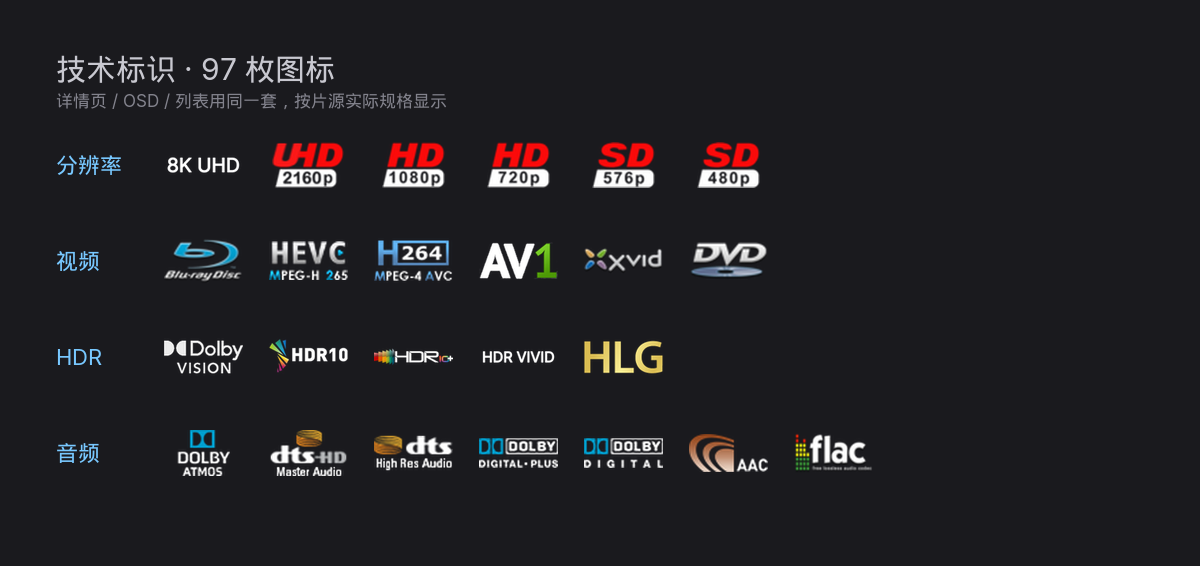
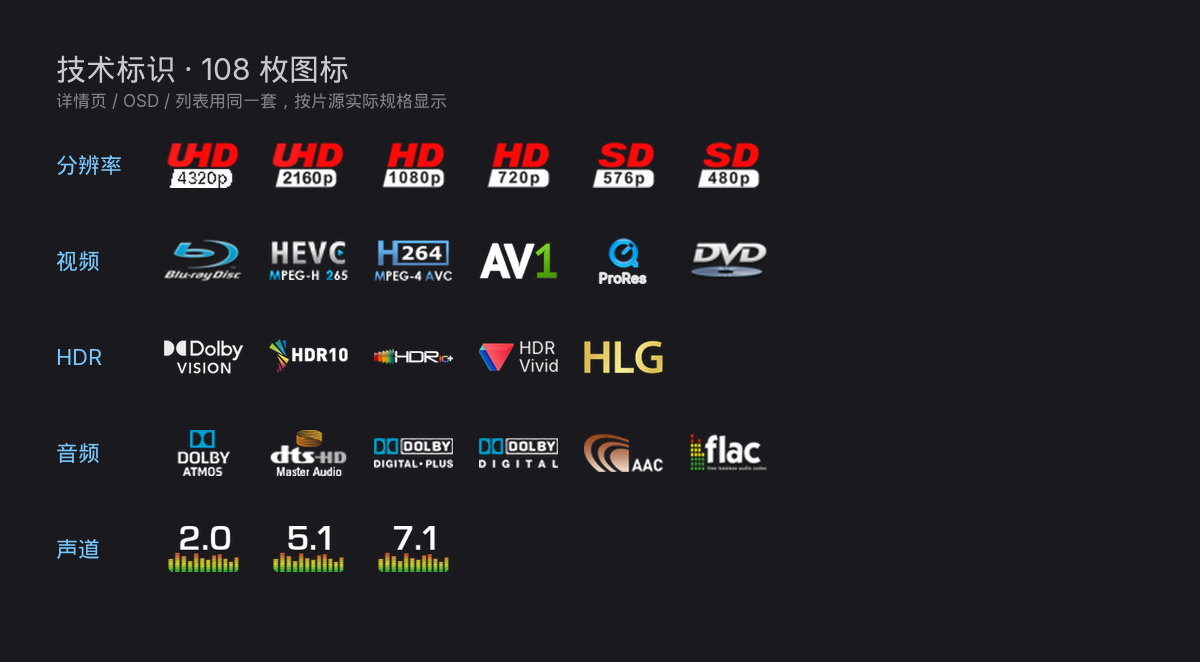
docs: README 定位与功能刷新，addon 描述收紧，技术标识一览图重生成

diff --git a/tools/gen_readme_sheet.py b/tools/gen_readme_sheet.py
@@ -19,9 +19,10 @@ ACCENT = (120, 200, 255, 255)
 
 ROWS = [
     ("分辨率", "resolution", ["8K", "4K", "1080", "720", "576", "480"]),
-    ("视频", "video", ["bluray", "h265", "h264", "av1", "xvid", "dvd"]),
+    ("视频", "video", ["bluray", "h265", "h264", "av1", "prores", "dvd"]),
     ("HDR", "hdr", ["dolbyvision", "hdr10", "hdr10plus", "hdr_vivid", "hlg"]),
-    ("音频", "audio", ["truehd_atmos", "dtshd_ma", "dtshd_hra", "eac3", "ac3", "aac", "flac"]),
+    ("音频", "audio", ["truehd_atmos", "dtshd_ma", "eac3", "ac3", "aac", "flac"]),
+    ("声道", "channels", ["2", "6", "8"]),
 ]
 
 ICON_H = 46          # 图标统一高度
@@ -48,12 +49,17 @@ def load(name, folder):
 canvas = Image.new("RGBA", (W, H), BG)
 d = ImageDraw.Draw(canvas)
 
+TOTAL = sum(
+    len([f for f in os.listdir(os.path.join(TECH, cat)) if f.lower().endswith(".png")])
+    for cat in os.listdir(TECH) if os.path.isdir(os.path.join(TECH, cat))
+)
+
 f_title = ImageFont.truetype(FONT, 30)
 f_label = ImageFont.truetype(FONT, 22)
 f_small = ImageFont.truetype(FONT, 17)
 
 # 标题
-d.text((PAD, PAD - 6), "技术标识 · 97 枚图标", font=f_title, fill=FG)
+d.text((PAD, PAD - 6), "技术标识 · %d 枚图标" % TOTAL, font=f_title, fill=FG)
 d.text((PAD, PAD + 34), "详情页 / OSD / 列表用同一套，按片源实际规格显示", font=f_small, fill=DIM)
 
 y = PAD + 86

diff --git a/README.md b/README.md
@@ -1,198 +1,181 @@
 # Mistuary（雾汐）
 
-雾汐｜轻量透明皮肤，衍生自 Estuary N，小而美。支持**透黑 / 透白**双主题，
-三档独立透明度，原生 Kodi 22 及以上即可运行，**不需要任何内核改动**。
+**Mistuary（雾汐）**，专为中文用户打造的 Kodi 22 轻量透明皮肤，衍生自 Estuary N，小而美。  
+透黑 / 透白双主题，页面 / 弹窗 / 播放中三档透明度各 6 级，原版 Kodi 22 直接运行。
 
-> 需要插件 **Mistuary Helper**（请先装插件再切皮肤）；搭配
-> **Emby for Kodi Next Gen** 并登录后，媒体库直接同步，电影 / 剧集 / 季 / 集 / 评分 / 封面开箱即用。
+**一键接入 Emby**：装好 **Emby for Kodi Next Gen** 并登录，媒体库整体同步进 Kodi ——
+电影 / 剧集 / 季 / 集 / 评分 / 库封面开箱即用，无需手动整理。
+
+> 依赖插件 **Mistuary Helper**（`addon.xml` 硬依赖，未安装时皮肤不加载）。请先装插件再切皮肤。
 
 ---
 
+## 界面预览
+
+![技术标识图标](docs/screenshots/techflags.png)
+
+> 技术标识：108 枚随包图标（分辨率 / 视频编码 / HDR / 音轨 / 声道），按片源实际规格显示，不从外部拉取。上图为 `media/techflags/` 实拍拼图（`tools/gen_readme_sheet.py` 生成）。
+
+## 亮点
+
+- **专为中文用户打造**：豆瓣评分、全拼 / 拼音首字母搜索、服务端中文演员名与类型搜索、  
+  手机 App 文本注入，由 Mistuary Helper 统一提供。
+- **一键接入 Emby**：E4KNG 登录即同步，与 Emby 应用内观感一致；神医助手（StrmAssistantPlus）  
+  写入的豆瓣类型评分同样被读取。
+- **免魔改内核**：全部用标准控件 + 贴图实现，Windows / Linux / CoreELEC / Android 通用。
+- **小而快**：极度精简，焦点移动无拖影，切视图不掉帧。
+- **皮肤零脚本**：皮肤本体只有 XML 与贴图，HTTP / JSON 全部在 Mistuary Helper。
+- **三档透明度互不影响**：页面管全屏页面与卡片，弹窗管对话框、菜单、键盘，播放中管 OSD、  
+  播放列表、书签 —— 多数皮肤只有一个总开关。
+
 ## 支持范围
 
-| 项 | 说明 |
-|---|---|
-| Kodi 版本 | **22 及以上**（要求 `xbmc.gui` 5.18.0，见下文） |
-| 平台 | Windows / Linux / CoreELEC / Android 均可 |
-| 语言 | 简体中文、English |
-| 必需插件 | **Mistuary Helper**（`addon.xml` 硬依赖，未装时皮肤无法加载） |
+| 项       | 说明                                   |
+| ------- | ------------------------------------ |
+| Kodi 版本 | **22 及以上**（要求 `xbmc.gui` 5.18.0） |
+| 平台      | Windows / Linux / CoreELEC / Android |
+| 宽屏适配  | 2160×1080（18:9）已实机验证；17:9 / 19.5:9 / 21:9 同一套百分比机制，未实机验证；4:3 / 3:2 / 16:10 纵向布局未验证 |
+| 语言      | 简体中文、English                         |
+| 必需插件    | **Mistuary Helper**（硬依赖）             |
 
 ## 安装
-
-**从压缩包安装（推荐）**
 
 1. 到 [Releases](https://github.com/wabisabi926/skin.mistuary/releases) 下载最新 `skin.mistuary-x.y.z.zip`
 2. Kodi → 设置 → 插件 → 从 zip 文件安装
 3. 设置 → 界面 → 皮肤 → 皮肤 → 选 **Mistuary**
 
-**手动安装**：把整个仓库目录放到 Kodi 的 `addons/` 下，目录名改成 `skin.mistuary`，重启 Kodi。
+手动安装：整个仓库目录放到 Kodi 的 `addons/` 下，目录名改成 `skin.mistuary`，重启 Kodi。
 
 ## 升级与回退
 
-**升级**：直接装新版本的 zip，Kodi 会提示「已安装，是否覆盖」，选是。
-皮肤设置存在 `userdata/addon_data/skin.mistuary/`，覆盖安装**不会丢**。
+直接装新版本 zip，Kodi 提示「已安装，是否覆盖」选是；皮肤设置存在  
+`userdata/addon_data/skin.mistuary/`，覆盖安装不丢。回退到旧版同理，从  
+[Releases](https://github.com/wabisabi926/skin.mistuary/releases) 取旧 zip。  
+**1.5.2 起要求 Kodi 22**，回 Kodi 21 需用 1.5.1 或更早。
 
-**回退**：到 [Releases](https://github.com/wabisabi926/skin.mistuary/releases) 找旧版本的 zip，
-同样方式装上即可。注意 **1.5.2 起要求 Kodi 22**，要回到 Kodi 21 得用 1.5.1 或更早。
+## 一键接入 Emby
 
-**什么时候必须重启 Kodi**（只重载皮肤不够）：
+1. 安装 **Emby for Kodi Next Gen**（E4KNG，Emby 官方 Kodi 插件）并登录
+2. 安装 [Mistuary Helper](https://github.com/wabisabi926/script.mistuary.helper/releases)
+3. 设置 → 界面 → 皮肤 → 皮肤 → 选 **Mistuary**（或重载皮肤）
 
-| 改了什么 | 生效方式 |
-|---|---|
-| XML / 贴图 / 语言文件 | 重载皮肤 |
-| 装 / 卸 Mistuary Helper、Emby 插件 | 重载皮肤 |
-| `addon.xml` 的依赖声明、皮肤版本号 | **完全退出 Kodi 再打开** |
-| 字体（`Font.xml` / `fonts/*.ttf`） | **完全退出 Kodi 再打开** |
+| 能力                                    | 来源                                                         |
+| ------------------------------------- | ---------------------------------------------------------- |
+| 媒体库、季集结构、已看状态、续播点                     | E4KNG 同步                                                   |
+| 媒体库封面（按库名自动显示）                        | Mistuary Helper 从 Emby 同步                                  |
+| 豆瓣类型评分                                | 神医助手写入 Emby → **Emby for Kodi Next Gen** 同步；详情页由 Helper 兜底 |
+| 首页 / 列表的类型化豆瓣分（亮豆瓣绿环）                | 官方 E4K 只同步 default 评分，类型化豆瓣分需本仓库的 E4K fork                |
+| 服务端搜索（中文 / 原名 / 全拼 / 首字母 / 英文人名 / 类型） | Mistuary Helper 走 Emby 服务端                                 |
 
 ## 必需插件：Mistuary Helper
 
-详情页豆瓣评分、Emby 服务端搜索、媒体库封面同步和播放列表补全由独立插件提供。
-皮肤的 `addon.xml` 声明了对它的硬依赖：**未安装时皮肤不会加载**，请先装插件再切皮肤。
+详情页豆瓣评分、Emby 服务端搜索、媒体库封面同步、播放列表补全由 Mistuary Helper 提供，  
+`addon.xml` 硬依赖：**未安装时皮肤不加载**。
 
-1. 从 [Mistuary Helper Releases](https://github.com/wabisabi926/script.mistuary.helper/releases)
+1. 从 [Mistuary Helper Releases](https://github.com/wabisabi926/script.mistuary.helper/releases)  
    下载 `script.mistuary.helper-<ver>.zip`
-2. Kodi → 插件 → 从 zip 安装，然后在「我的插件 → 程序插件」里启用
+2. Kodi → 插件 → 从 zip 安装，在「我的插件 → 程序插件」里启用
 3. 设置 → 界面 → 皮肤 → 皮肤 → 选 **Mistuary**（或重载皮肤）
 
-> 装 / 卸插件后不重载皮肤，新分支不会生效。搜索还需要 **Emby for Kodi NextGen**；
-> 豆瓣评分只需要 IMDb id，不依赖 Emby。其余功能建议装最新版（0.5.0 及以上），
-> 封面同步、文件播放记录、播放列表补全与未同步剧集浏览都已包含。
-> 相关开关在皮肤设置的「媒体」「播放」页：服务端搜索、详情页联网取豆瓣、播放列表补全等。
-
-## 为什么用它
-
-- **Emby 媒体库开箱即用**：装好并登录 Emby for Kodi Next Gen，媒体库、季集、评分与封面自动同步，不需要手动整理或额外配置。
-- **不需要魔改内核**：原版 Kodi 22 直接跑。很多透明皮肤依赖定制内核的玻璃、
-  圆角扩展，装不上就是黑屏或者效果全丢；这里全部换成标准控件 + 贴图，Windows、CoreELEC、
-  安卓通用。
-- **小而快**：`Textures.xbt` **8.8 MB**、858 张贴图。焦点移动没有拖影，切视图不掉帧。
-- **皮肤里没有 Python**：Kodi 不允许皮肤携带可执行脚本，需要 HTTP / JSON 的部分
-  都在 Mistuary Helper 里，皮肤本体只有 XML 与贴图。
-- **三档透明度分开调**：页面、浮窗、播放中各 6 级，互不影响 —— 多数皮肤只有一个总开关，
-  调完连对话框都跟着变。
+> 装 / 卸插件后不重载皮肤，新分支不生效。搜索还需 **Emby for Kodi NextGen**；  
+> 豆瓣评分只需 IMDb id（或库内豆瓣 ID）。建议 **0.5.3+**：英文人名与类型搜索扩展、  
+> 豆瓣分优先读 StrmAssistant 快照（减少直连限流）、背景剧照色光底（0.5.0）、  
+> 未同步剧集浏览（0.4.0）。相关开关在皮肤设置的「媒体」「播放」页。
 
 ## 主要功能
 
-| | |
-|---|---|
-| **界面** | 真圆角海报墙（遮罩裁切，不是拿色块盖角）、焦点环贴边、详情页全屏沉浸、演员栏点开 |
-| **背景** | 影视页剧照铺满全屏；当前剧照高斯模糊成色光，以 35% 透明度覆在左侧做彩色光晕（Mistuary Helper 提供）；剧照底层与阅读遮罩的压暗可在「设置 → 外观 → 背景压暗」四档调节 |
-| **剧集** | 点开电视剧直接进入剧集详情页版式：季标签与本季集卡片同屏，切换季即换集；首页、媒体库、分类、搜索入口一致 |
-| **元数据** | 评分胶囊（豆瓣 / IMDb / TMDB / 烂番茄，按数据源自动取最多两个；豆瓣优先读 E4K 同步的类型评分，详情页读不到时由 Mistuary Helper 兜底）、技术标识做成图标 |
-| **音乐** | 播放页右侧歌词（CU LRC）、黑胶唱片模式、可替换播放背景、OSD 闲置自动隐藏且时间可调 |
-| **播放** | Mistuary Helper 补全同季 / 同目录后续队列；电视剧详情页起播直接全屏 |
-| **文件续播** | 文件管理器里播过的视频记住进度：起播询问「继续播放 / 从头播放」，焦点行显示已播比例圆环（由 Mistuary Helper 提供） |
-| **系统** | 电源菜单按平台能力自动显隐、设置中心把 Kodi 原生设置和皮肤选项放在一起 |
-
-![技术标识图标](docs/screenshots/techflags.png)
-
-> 技术标识是 **97 枚随包图标**（分辨率 / 视频编码 / HDR / 音轨），按片源实际规格显示，
-> 不是文字标签，也不从外部拉取。上面这张是从 `media/techflags/` 里取的真实图标。
+|          |                                                                                       |
+| -------- | ------------------------------------------------------------------------------------- |
+| **界面**   | 真圆角海报墙（遮罩逐像素裁切，非色块盖角）、焦点环贴边、详情页全屏沉浸、演员栏点开                                             |
+| **背景**   | 影视页剧照铺满全屏；当前剧照经 Helper 高斯模糊成色光底，从清晰剧照左缘渗出（35% 淡色光）；底层压暗四档可调（「设置 → 外观 → 背景压暗」，默认 0.50） |
+| **剧集**   | 点开电视剧直接进入剧集详情页版式：季标签与本季集卡片同屏，切换季即换集；所有电视剧入口一致                                         |
+| **评分**   | 评分胶囊（豆瓣 / IMDb / TMDB）：主评分四档可选，详情页豆瓣评分独立开关，一行最多两颗；豆瓣优先读 E4K 同步的类型评分，详情页读不到时 Helper 兜底 |
+| **搜索**   | 服务端搜索支持中文 / 原名 / 全拼 / 首字母 / 英文人名 / 类型；输入框可呼出全键盘，中文直写，兼容手机 App 文本注入                    |
+| **音乐**   | 播放页右侧歌词（CU LRC）、黑胶唱片模式、可替换播放背景、OSD 闲置自动隐藏（时长可调）                                       |
+| **播放**   | Helper 补全同季 / 同目录 / 跨季后续队列；电视剧详情页起播直接全屏                                               |
+| **文件续播** | 文件管理器播过的视频记住进度：起播询问「继续播放 / 从头播放」，焦点行显示已播比例圆环（Helper 提供，不写 Kodi 原生续播点）                 |
+| **系统**   | 电源菜单按平台能力自动显隐；设置中心合并 Kodi 原生设置与皮肤选项                                                   |
 
 ## 透黑 / 透白
 
 同一套玻璃，两种压色方向，在「设置 → 界面 → 皮肤 → 颜色」切换：
 
-- **透黑**（`SKINDEFAULT`，默认）：玻璃压黑，暗环境看片不刺眼 —— 这套皮肤的常态
-- **透白**（`light`）：玻璃提白，白天或亮环境下更清爽
+- **透黑**（`SKINDEFAULT`，默认）：玻璃压黑，暗环境不刺眼 —— 皮肤的常态
+- **透白**（`light`）：玻璃提白，亮环境更清爽
 
-面板分 6 级明暗，由「皮肤设置 → 界面」的三个透明度设置控制；两种模式下文字都是白色。
+面板分 6 级明暗，由「皮肤设置 → 界面」的三个透明度设置控制；两种模式下文字均为白色。
 
 ## 常改的几个设置
 
-设置页**底部有帮助条** —— 聚焦哪一行就显示那一行的说明，不用查文档。
-下面只列最常动的几个：
+设置页底部有帮助条：聚焦哪一行显示哪一行的说明。最常动的几项：
 
-| 设置 | 位置 | 管什么 |
-|---|---|---|
-| **页面 / 弹窗 / 播放中透明度** | 皮肤设置 → 界面 | 三档各 6 级。页面管全屏页面和页面里的卡片；弹窗管对话框、菜单、键盘；播放中管 OSD、播放列表、书签 |
-| **主评分来源** | 皮肤设置 → 媒体 | TMDb / IMDb / 豆瓣 / 自动。选「豆瓣」需要神医助手把豆瓣分写入 Emby，并由 E4K 同步该类型 |
-| **次评分来源** | 皮肤设置 → 媒体 | 自动 / 豆瓣 / 烂番茄 / 关闭。一行最多两颗评分胶囊 |
-| **媒体标识** | 皮肤设置 → 媒体 | 关掉后详情页和列表不再显示 4K / HDR / 音轨图标 |
-| **自动滚动** | 皮肤设置 → 界面 | 长标题、长简介自动滚动 |
+| 设置                   | 位置        | 管什么                                                  |
+| -------------------- | --------- | ---------------------------------------------------- |
+| **页面 / 弹窗 / 播放中透明度** | 皮肤设置 → 界面 | 三档各 6 级，互不影响（见「亮点」）                                  |
+| **主评分来源**            | 皮肤设置 → 媒体 | TMDb / IMDb / 豆瓣 / 自动；选「豆瓣」需神医助手写分入 Emby 且 E4K 同步该类型 |
+| **详情页显示豆瓣评分**        | 皮肤设置 → 媒体 | 开关。开启后详情页在主评分之外追加豆瓣胶囊（2.3.0 起取代原「次评分来源」）             |
+| **背景压暗**             | 皮肤设置 → 外观 | 剧照底层与阅读遮罩四档：0.35 / 0.50 / 0.60 / 1.00                |
+| **媒体标识**             | 皮肤设置 → 媒体 | 关闭后不再显示 4K / HDR / 音轨图标                              |
+| **自动滚动**             | 皮肤设置 → 界面 | 长标题、长简介自动滚动                                          |
 
-> 评分**一行最多两颗**：主评分 + 次评分。次评分「自动」时，豆瓣与主评分同值不重复显示；手选「豆瓣」固定显示。
+> 评分一行最多两颗：主评分 + 豆瓣。列表页只显示主评分；详情页由「显示豆瓣评分」开关控制第二颗，同值不重复显示。
 
-## 为什么只支持 Kodi 22
 
-技术标识（4K / HDR / 杜比视界 / 音轨格式）用 `$MAP[]` 做「值 → 图标」映射，
-这是 **Kodi 22 才引入**的语法。Kodi 21 不展开它，会把
-`$MAP[NaraTechnicalHdrIconMap,dv]` 原样画在屏幕上 —— 与其让 21 用户看到一堆表达式，
-不如直接要求 22。
-
-`addon.xml` 声明 `xbmc.gui 5.18.0`，Kodi 21 会在**安装时直接拒绝**，
-不会出现「装上了但界面是坏的」。
-
-还在 Kodi 21 上的人可以用 **1.5.1 及以前的版本**，那些版本技术标识会退化成纯文字。
-
-> 1.5.1 及以前确实做过「21 用文字、22 用图标」的双轨分支，但两版行为差异越修越多、
-> 21 也一直没在实机上验证过，1.5.2 起直接砍掉，只留一条渲染路径 ——
-> 少一个分支就少一类「只有某种设备上才复现」的 bug。
 
 ## 已知限制
 
-- **安卓上电源菜单只有「退出 / 设置」**：Kodi 在安卓没有关机、重启的系统权限，皮肤补不了
-- **杜比视界档位（P7 / P7 FEL）只在 Kodi 22 显示**：Kodi 的播放信息里没有这个字段
 - **不维护天气、电台、游戏界面**：只保留视频、音乐、图片、PVR、插件
-- **只维护中英双语**：其他语言会显示英文
-- **详情页点演员看作品需要 `script.embuary.info`**：没装时会提示安装（可拒绝，不影响其他功能）
-- **本地搜索只匹配标题 / 原名 / 拼音首字母**：中文演员名与类型由服务端桥支持（需 Helper 0.3.3+）
-- **首页 / 列表的豆瓣次评分依赖 E4K 评分同步**：官方 E4K 不写豆瓣类型，此时豆瓣只在详情页显示
+- **只维护中英双语**：其他语言显示英文
+- **详情页点演员看作品需 `script.embuary.info`**：未装时提示安装（可拒绝）
+- **本地搜索只匹配标题 / 原名 / 拼音首字母**：中文演员名与类型需服务端桥（Helper 0.3.3+）
+- **首页 / 列表的豆瓣分依赖库内评分类型**：官方 E4K 只同步 default 评分，没有 douban 类型时首页 / 列表只能把豆瓣分当主评分数值显示（识别不出豆瓣、环色不亮绿）；类型化豆瓣分由本仓库的 E4K fork 提供。详情页不受影响，Helper 可联网兜底
 
 ## 常见问题
 
-**装了皮肤没变化，还是原来的皮肤**
-设置 → 界面 → 皮肤 → 皮肤 → 选 **Mistuary**。
-如果刚换过版本号或依赖声明，需要**完全退出 Kodi 再打开**，光重载皮肤不够。
+**装了皮肤没变化，还是原来的皮肤**  
+设置 → 界面 → 皮肤 → 皮肤 → 选 **Mistuary**。刚换过版本号或依赖声明的，需**完全退出 Kodi 再打开**。
 
 **背景全黑，没有剧照**
-1. 看 皮肤设置 → 艺术图片 → 有没有关掉背景图相关的开关
-2. 确认 Emby 给这部片提供了 fanart（纯本地刮削的库可能没有）
-3. 搜索页的背景是「渐变 + 随机剧照」，属于设计，不是没加载出来
+
+1. 查 皮肤设置 → 艺术图片 → 是否关掉背景图相关开关
+2. 确认 Emby 提供了 fanart（纯本地刮削的库可能没有）
+3. 搜索页背景是「渐变 + 随机剧照」，属设计
 
 **技术标识（4K / HDR / Atmos）不显示**
-1. 确认 Kodi 是 **22**（设置 → 系统信息）。1.5.2 起 21 装不上，也不用装
-2. 确认片源本身带这些信息 —— 纯 Kodi 刮削的库只有分辨率，没有 HDR / 音轨规格
-3. 剧集和季在列表里用「当前季第一集」代表；整部剧没有单集数据时是空的
 
-**详情页没有豆瓣评分**
-需要装 **Mistuary Helper**（皮肤硬依赖），并且片子要有 IMDb id。
-想要和 Emby 应用内一致的分数，还得装神医助手（StrmAssistant）——
-Helper 会优先读它的接口；没装时 Helper 直连豆瓣公开接口，可能被限流。
+1. 确认 Kodi 是 **22**（设置 → 系统信息）
+2. 确认片源本身带这些信息 —— 纯 Kodi 刮削的库只有分辨率
+3. 剧集和季在列表里用「当前季第一集」代表；整部剧无单集数据时为空
 
-**搜索没有结果，或者只搜得到本地内容**
-- 服务端搜索需要 **Emby for Kodi NextGen** + **Mistuary Helper** 都装好
-- 只装皮肤时走本地搜索，只匹配标题、原名、拼音首字母
-- 中文演员名、类型搜索只有服务端模式支持
+**详情页没有豆瓣评分**  
+需装 **Mistuary Helper**（硬依赖），片子要有 IMDb id（或库内豆瓣 ID）。  
+要和 Emby 应用内一致的分数，需装神医助手（StrmAssistant）：Helper 优先读它的接口快照，  
+未装时直连豆瓣公开接口，可能被限流。
 
-**插件列表里图标是空白**
-1.5.1 修过（原来只读 `Icon`，没读 `thumb`）。升到 1.5.2 后重启 Kodi 即可。
+**搜索没有结果，或只搜得到本地内容**
 
-**2160 / 21:9 屏上元素偏左、右边空一条**
-1.5.2 修了图片浏览对话框。其他界面如果还有类似问题，附截图提 issue。
+- 服务端搜索需 **Emby for Kodi NextGen** + **Mistuary Helper** 都装好
+- 只装皮肤走本地搜索，只匹配标题、原名、拼音首字母
+- 中文演员名、类型、英文人名只有服务端模式支持
 
-**换透明度后没反应**
-三个透明度是**分开**的：页面、弹窗、播放中各管一摊。
-调「页面透明度」时播放 OSD 不会变，那由「播放中透明度」管。
+**换透明度后没反应**  
+三档透明度各管一摊：调「页面透明度」时播放 OSD 不变，那由「播放中透明度」管。
 
 ## 许可
 
-本皮肤**代码**与**美术素材**许可不同，另有若干第三方素材：
-
-| 部分 | 许可 |
-| --- | --- |
-| 皮肤代码（`xml/`、`colors/`、`tools/`） | GNU GPL v2 —— 全文见 [`LICENSE`](LICENSE) |
-| 美术素材（配色、布局、图标重绘、背景图） | CC BY-SA 4.0 |
+| 部分                                      | 许可                                                  |
+| --------------------------------------- | --------------------------------------------------- |
+| 皮肤代码（`xml/`、`colors/`、`tools/`）         | GNU GPL v2 —— 全文见 [`LICENSE`](LICENSE)              |
+| 美术素材（配色、布局、图标重绘、背景图）                    | CC BY-SA 4.0                                        |
 | UI 字体 `fonts/Inter-Unicode-Regular.ttf` | SIL OFL 1.1 —— 全文见 [`fonts/OFL.txt`](fonts/OFL.txt) |
 
-第三方素材的**完整来源、版本与许可声明**见 [`CREDITS.md`](CREDITS.md)
-（tinyppi 图标 MIT、Inter 字体 OFL、Arctic Fuse 类型图标与技术标识 CC BY-NC-SA）。
-分发或再发布时，`LICENSE`、`fonts/OFL.txt`、`CREDITS.md` 三个文件必须一起带上。
+第三方素材的完整来源、版本与许可声明见 [`CREDITS.md`](CREDITS.md)  
+（tinyppi 图标 MIT、Inter 字体 OFL、Arctic Fuse 类型图标与技术标识 CC BY-NC-SA）。  
+分发或再发布时，`LICENSE`、`fonts/OFL.txt`、`CREDITS.md` 必须一起带上。
 
 ## 反馈
 
-问题、建议、皮肤想法都可以开 issue：
-<https://github.com/wabisabi926/skin.mistuary/issues>
+问题、建议、想法请开 issue：<https://github.com/wabisabi926/skin.mistuary/issues>
 
 ---
 

diff --git a/docs/screenshots/README.md b/docs/screenshots/README.md
@@ -6,19 +6,23 @@ README 里引用的图片放这里。**只放最终成品图**，调试用的对
 
 | 文件 | 内容 | 来源 |
 |---|---|---|
-| `techflags.png` | 技术标识 97 枚图标一览（1200×566） | 由 `docs/scratch/make_techflag_sheet.py` 从 `media/techflags/` 拼成，**素材是真实的** |
+| `techflags.png` | 技术标识 108 枚图标一览（1200×662，分辨率 / 视频 / HDR / 音频 / 声道五行） | 由 `tools/gen_readme_sheet.py` 从 `media/techflags/color/` 拼成，**素材是真实的**；枚数标题由脚本动态统计，图标增删后重跑即可 |
 
 ## 还缺（等实机截图）
 
-README 目前只有一张图标一览，缺**真实界面截图**。要补的话按下表拍，
-文件名用括号里那个，直接放进本目录，我再改 README 引用。
+**2026-11-14**：曾尝试 JSON-RPC 远程截屏，因开发机是 2160×1080（18:9）非标准屏，画面
+与常见 16:9 播放设备不一致，改为**由用户后续手动补图**。README「界面预览」一节已留好
+对应占位（注释状态），截图就位后取消注释即可。要补的话按下表拍：
 
 | 优先级 | 拍什么 | 文件名 | 要求 |
 |---|---|---|---|
-| 1 | **首页**（继续观看 + 媒体库两行，带 fanart 背景） | `home.png` | 全屏，2160×1080 或 1920×1080 |
+| 1 | **首页**（继续观看 + 媒体库两行，带 fanart 背景 + 色光底） | `home.png` | 全屏，1920×1080 或等比 16:9 |
 | 2 | **详情页**（大海报 + 评分胶囊 + 技术标识 + 简介） | `info.png` | 同上，最好挑一部带杜比视界的片子，能显示 4 枚标识 |
-| 3 | **海报墙**（7 列，能看出圆角和焦点环） | `wall.png` | 同上 |
-| 4 | **透明度对比**（同一页面「平衡」vs「实心」两张） | `opacity-a.png` / `opacity-b.png` | 同一页面、同一部片，只改透明度设置 |
+| 3 | **剧集详情页**（季标签 + 本季集卡片同屏） | `episodes.png` | 同上 |
+| 4 | **海报墙**（7 列，能看出圆角和焦点环） | `wall.png` | 同上 |
+| 5 | **搜索页**（输入框 + 全键盘按钮，有结果更好） | `search.png` | 同上 |
+| 6 | **音乐播放页**（右侧歌词或黑胶模式） | `music.png` | 同上 |
+| 7 | **透明度对比**（同一页面「平衡」vs「实心」两张） | `opacity-a.png` / `opacity-b.png` | 同一页面、同一部片，只改透明度设置 |
 
 ### 怎么拍
 
